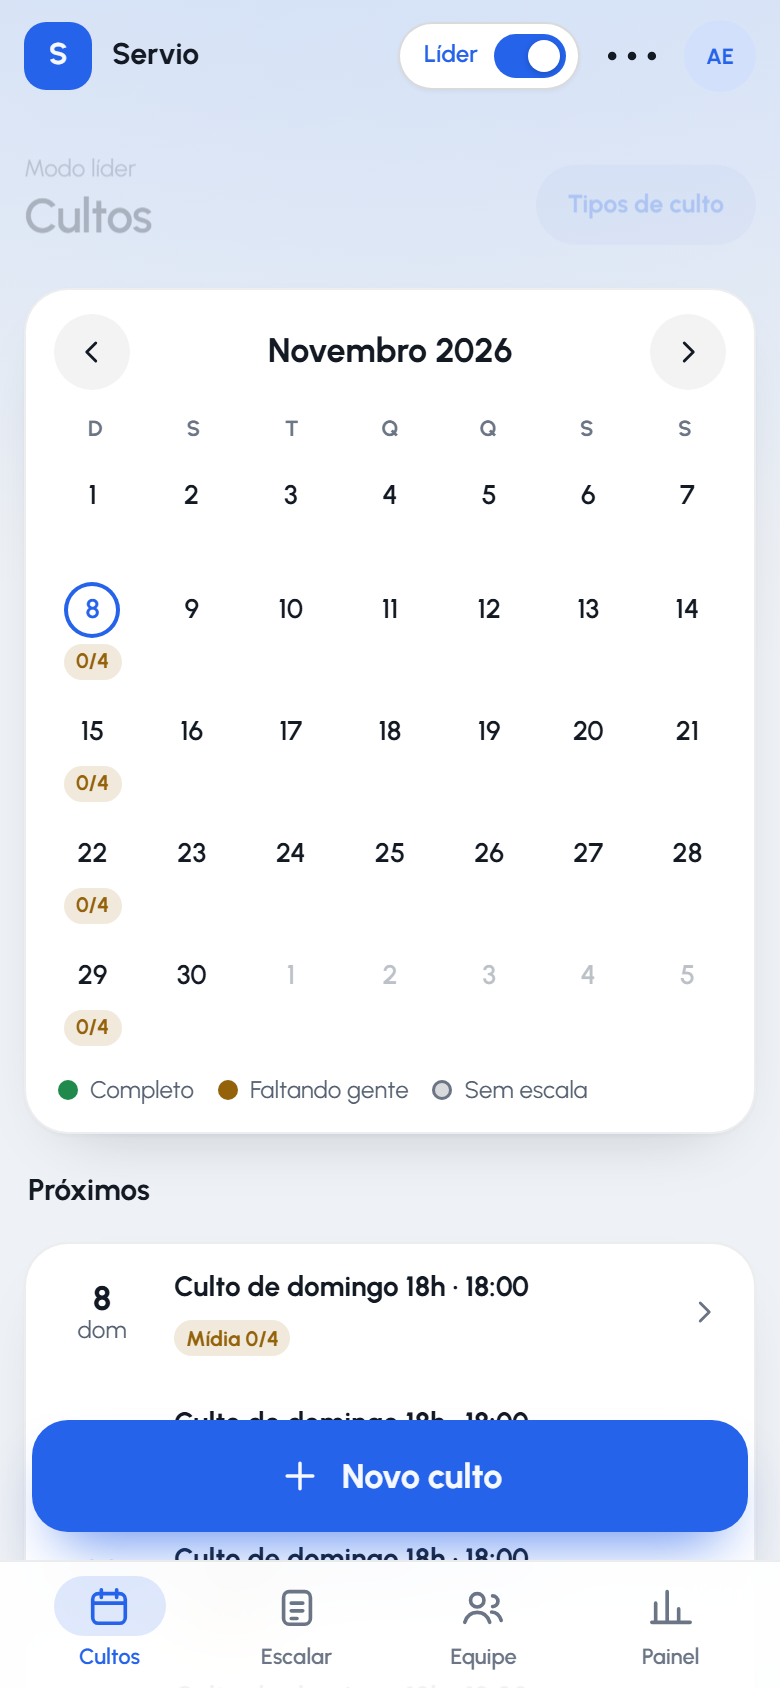
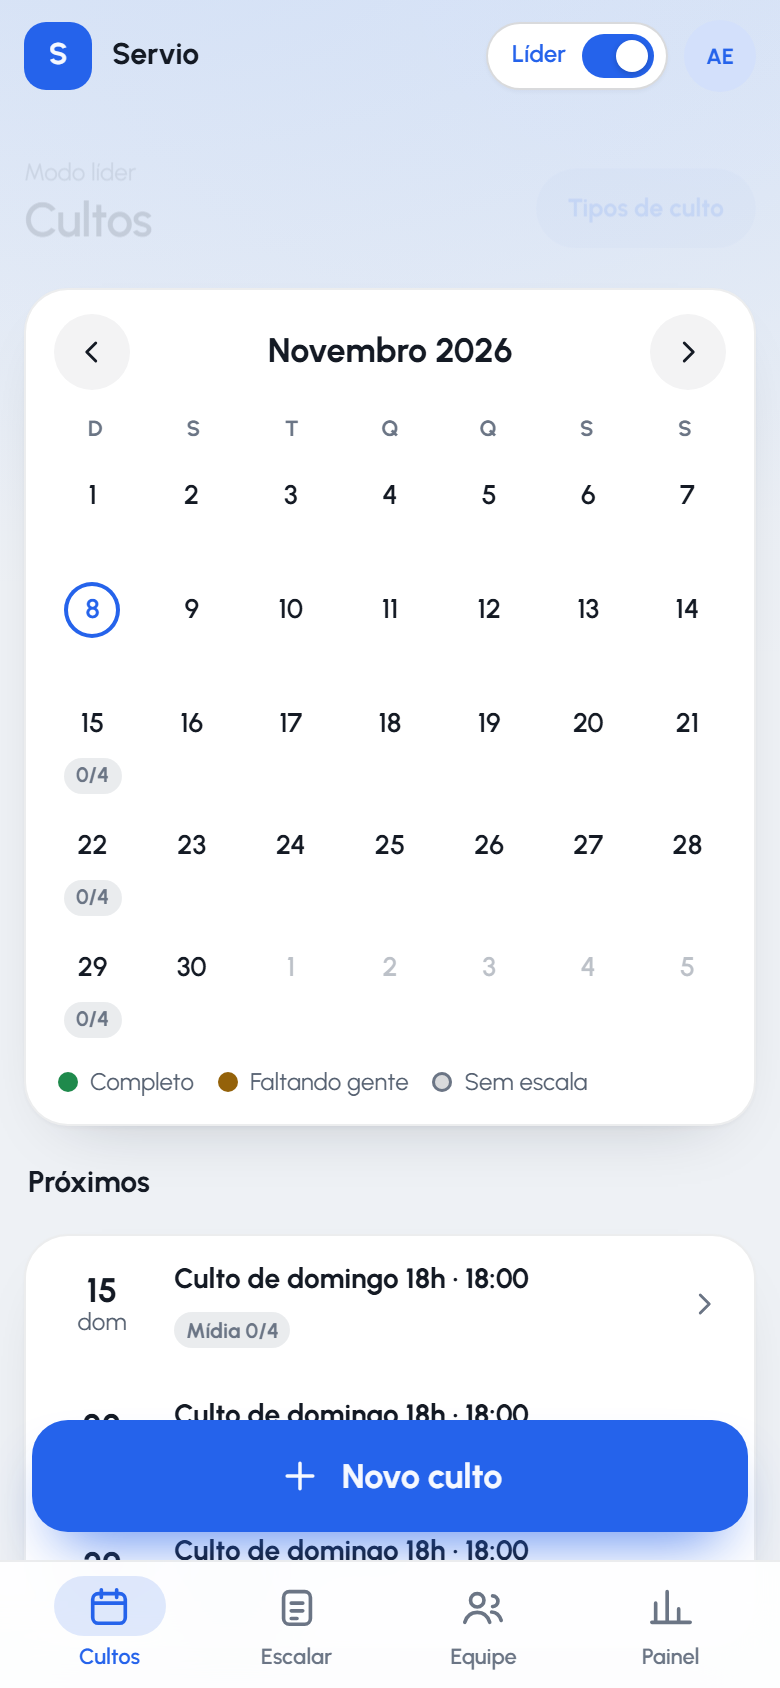
fila 041: tirar telas antigas de escala e evento

diff --git a/src/app/(app)/escalas/[eventoId]/[ministerioId]/page.tsx b/src/app/(app)/escalas/[eventoId]/[ministerioId]/page.tsx
@@ -1,137 +1,7 @@
-import Link from "next/link";
-import { notFound } from "next/navigation";
-import { formatInTimeZone } from "date-fns-tz";
-import { db } from "@/db";
-import type { AnyDb } from "@/lib/auth-core";
-import { PresencaEscala } from "@/components/PresencaEscala";
-import { dadosMontagem } from "@/lib/escala/nucleo";
-import { linkWhatsApp, textoEscala } from "@/lib/escala/texto";
-import { ErroAcesso } from "@/lib/ministerios/nucleo";
-import { exigirUsuarioSemTroca, idSeguro } from "@/lib/ministerios/sessao";
-import { FUSO } from "@/lib/recorrencia";
-import { presencaDaEscala } from "@/lib/trocas/nucleo";
-import { gravarEscala } from "../../acoes";
-import { Cabecalho } from "@/components/Cabecalho";
+import { redirect } from "next/navigation";
+import { idSeguro } from "@/lib/ministerios/sessao";
 
-export const dynamic = "force-dynamic";
-
-const MOTIVO = { indisponivel: "indisponível", conflito: "em outro evento no horário" } as const;
-
-export default async function MontarEscala({
-  params,
-  searchParams,
-}: {
-  params: Promise<{ eventoId: string; ministerioId: string }>;
-  searchParams: Promise<{ erro?: string; ok?: string }>;
-}) {
-  const ator = await exigirUsuarioSemTroca();
-  const p = await params;
-  const eventoId = idSeguro(p.eventoId);
-  const ministerioId = idSeguro(p.ministerioId);
-  let d;
-  try {
-    d = await dadosMontagem(db() as unknown as AnyDb, ator, eventoId, ministerioId);
-  } catch (erro) {
-    if (erro instanceof ErroAcesso) notFound();
-    throw erro;
-  }
-  const presenca = d.status === "publicada" ? await presencaDaEscala(db() as unknown as AnyDb, ator, eventoId, ministerioId) : [];
-  const { erro, ok } = await searchParams;
-  const nomeDe = (f: (typeof d.funcoes)[number]) =>
-    f.candidatos.find((c) => c.usuarioId === f.escolhido)?.nome ?? null;
-  const whatsapp =
-    d.status === "publicada"
-      ? linkWhatsApp(textoEscala(d.evento, d.ministerio.nome, d.funcoes.map((f) => ({ funcao: f.nome, nome: nomeDe(f) }))))
-      : null;
-
-  return (
-    <div className="space-y-5">
-      <Cabecalho
-        eyebrow={`${formatInTimeZone(d.evento.inicio, FUSO, "dd/MM/yyyy HH:mm")}${
-          d.evento.fim ? `–${formatInTimeZone(d.evento.fim, FUSO, "HH:mm")}` : ""
-        } · ${d.status === "publicada" ? "Publicada" : d.status === "rascunho" ? "Rascunho" : "Sem escala"}`}
-        titulo={`${d.ministerio.nome} · ${d.evento.titulo}`}
-      >
-        <Link href="/escalas" className="btn">
-          ← Escalas
-        </Link>
-      </Cabecalho>
-      {erro && (
-        <p role="alert" className="alerta alerta--bad">
-          {erro}
-        </p>
-      )}
-      {ok && <p className="alerta alerta--good">{ok}</p>}
-
-      {d.funcoes.length === 0 ? (
-        <p className="text-sm text-muted">
-          Cadastre as funções do ministério em{" "}
-          <Link href={`/ministerios/${d.ministerio.id}`} className="link">
-            Ministérios
-          </Link>
-          .
-        </p>
-      ) : (
-        <form action={gravarEscala} className="card space-y-4">
-          <input type="hidden" name="evento" value={d.evento.id} />
-          <input type="hidden" name="ministerio" value={d.ministerio.id} />
-          {d.funcoes.map((f) => {
-            const bloqueados = f.candidatos.filter((c) => c.bloqueio);
-            return (
-              <fieldset key={f.id} className="space-y-1">
-                <label className="rotulo">
-                  <span className="text-ink font-semibold">{f.nome}</span>
-                  {f.statusItem && d.status === "publicada" && (
-                    <span className="ml-2 text-xs font-normal">({f.statusItem})</span>
-                  )}
-                  <select name={`f_${f.id}`} defaultValue={f.escolhido ?? ""} className="campo">
-                    <option value="">— vago —</option>
-                    {f.candidatos.map((c) => (
-                      <option
-                        key={c.usuarioId}
-                        value={c.usuarioId}
-                        disabled={Boolean(c.bloqueio) && c.usuarioId !== f.escolhido}
-                        className={c.bloqueio ? "text-bad" : undefined}
-                      >
-                        {c.nome}
-                        {c.bloqueio ? ` (${MOTIVO[c.bloqueio]})` : ""}
-                      </option>
-                    ))}
-                  </select>
-                </label>
-                {f.candidatos.length === 0 && (
-                  <p className="text-xs text-muted">Ninguém aprovado tem esta função.</p>
-                )}
-                {bloqueados.length > 0 && (
-                  <ul className="text-xs text-bad">
-                    {bloqueados.map((c) => (
-                      <li key={c.usuarioId}>
-                        {c.nome}: {MOTIVO[c.bloqueio!]}
-                      </li>
-                    ))}
-                  </ul>
-                )}
-              </fieldset>
-            );
-          })}
-          <div className="grid gap-3 sm:grid-cols-2">
-            <button type="submit" name="acao" value="rascunho" className="btn btn--block">
-              Salvar rascunho
-            </button>
-            <button type="submit" name="acao" value="publicar" className="btn btn--primary btn--block">
-              {d.status === "publicada" ? "Atualizar publicada" : "Publicar"}
-            </button>
-          </div>
-        </form>
-      )}
-
-      <PresencaEscala linhas={presenca} />
-
-      {whatsapp && (
-        <a href={whatsapp} target="_blank" rel="noopener noreferrer" className="btn btn--block">
-          Compartilhar no WhatsApp
-        </a>
-      )}
-    </div>
-  );
+/** A montagem por ministério foi substituída pela tela do culto (modo líder). */
+export default async function MontarEscala({ params }: { params: Promise<{ eventoId: string }> }) {
+  redirect(`/lider/cultos/${idSeguro((await params).eventoId)}`);
 }

diff --git a/src/app/(app)/lider/equipe/MinisteriosAdmin.tsx b/src/app/(app)/lider/equipe/MinisteriosAdmin.tsx
@@ -3,6 +3,7 @@ import { db } from "@/db";
 import { usuarios } from "@/db/schema";
 import { listarMinisterios, type Ator } from "@/lib/ministerios/nucleo";
 import { alterarPapel, arquivarMinisterioAcao, criarMinisterioAcao, editarMinisterioAcao } from "./actions";
+import { FormConfirmar } from "./FormConfirmar";
 import estilo from "./equipe.module.css";
 
 /** Ministérios da igreja: criar, renomear, definir líder e arquivar (só admin). */
@@ -52,12 +53,12 @@ export async function MinisteriosAdmin({ ator }: { ator: Ator }) {
                   Definir papel
                 </button>
               </form>
-              <form action={arquivarMinisterioAcao}>
+              <FormConfirmar action={arquivarMinisterioAcao} pergunta={`Arquivar o ministério ${m.nome}?`}>
                 <input type="hidden" name="ministerio" value={m.id} />
                 <button type="submit" className={`tbtn ${estilo.perigo}`} style={{ justifySelf: "start" }}>
                   Arquivar {m.nome}
                 </button>
-              </form>
+              </FormConfirmar>
             </div>
           </details>
         ))}

diff --git a/src/app/(app)/eventos/[id]/page.tsx b/src/app/(app)/eventos/[id]/page.tsx
@@ -6,7 +6,6 @@ import { db } from "@/db";
 import { eventos } from "@/db/schema";
 import { exigirPapel } from "@/lib/auth";
 import { FUSO } from "@/lib/recorrencia";
-import { EscalasDoEvento } from "@/components/EscalasDoEvento";
 import { editarEvento, excluirRegra, gerarProximos } from "../acoes";
 import { Cabecalho } from "@/components/Cabecalho";
 
@@ -116,10 +115,6 @@ export default async function DetalheEvento({
           </p>
         </section>
       )}
-
-      <section id="escalas-do-evento" aria-label="Escalas do evento">
-        <EscalasDoEvento eventoId={evento.id} igrejaId={admin.igrejaId} />
-      </section>
     </div>
   );
 }

diff --git a/src/app/(app)/lider/equipe/FormConfirmar.tsx b/src/app/(app)/lider/equipe/FormConfirmar.tsx
@@ -1,0 +1,23 @@
+"use client";
+
+import type { FormEvent, ReactNode } from "react";
+
+/** Formulário de ação do servidor que pede confirmação antes de enviar. */
+export function FormConfirmar({
+  action,
+  pergunta,
+  children,
+}: {
+  action: (formData: FormData) => void | Promise<void>;
+  pergunta: string;
+  children: ReactNode;
+}) {
+  const confirmar = (e: FormEvent) => {
+    if (!window.confirm(pergunta)) e.preventDefault();
+  };
+  return (
+    <form action={action} onSubmit={confirmar}>
+      {children}
+    </form>
+  );
+}

diff --git a/e2e/fluxo-principal.spec.ts b/e2e/fluxo-principal.spec.ts
@@ -146,6 +146,6 @@ test("admin cria ministério, voluntário entra por convite, líder aprova, esca
 
   // 9. Líder vê o voluntário presente.
   await lider.goto(`/escalas/${eventoId}/${ministerioId}`);
-  await expect(lider.getByText(/Vocal: Voluntario E2E/)).toBeVisible();
-  await expect(lider.getByText(/Presente \d\d:\d\d/)).toBeVisible();
+  await expect(lider).toHaveURL(new RegExp(`/lider/cultos/${eventoId}$`));
+  await expect(lider.getByRole("button", { name: /Voluntario E2E, Vocal: Confirmou/ })).toBeVisible();
 });

diff --git a/e2e/equipe-v2.spec.ts b/e2e/equipe-v2.spec.ts
@@ -63,6 +63,7 @@ test("líder gere a equipe inteira na aba Equipe; admin cria e arquiva ministér
   }
   await print(admin, "ministerios");
   await admin.locator("summary", { hasText: "Equipe Descartável" }).click();
+  admin.once("dialog", (d) => d.accept());
   await admin.getByRole("button", { name: "Arquivar Equipe Descartável" }).click();
   await expect(admin.getByText("Equipe Descartável", { exact: true })).toHaveCount(0);
 

diff --git a/e2e/z-casca-sem-mais.spec.ts b/e2e/z-casca-sem-mais.spec.ts
@@ -34,6 +34,8 @@ test("telas antigas redirecionam para as abas novas", async ({ browser }) => {
     ["/eventos", /\/lider\/cultos$/],
     ["/eventos?mes=2026-12", /\/lider\/cultos\?mes=2026-12$/],
     ["/agenda/trocas", /\/lider\/escalar$/],
+    ["/escalas", /\/lider\/escalar$/],
+    ["/escalas/1/1", /\/lider\/cultos\/1$/],
   ];
   for (const [de, para] of casos) {
     await admin.goto(de);
